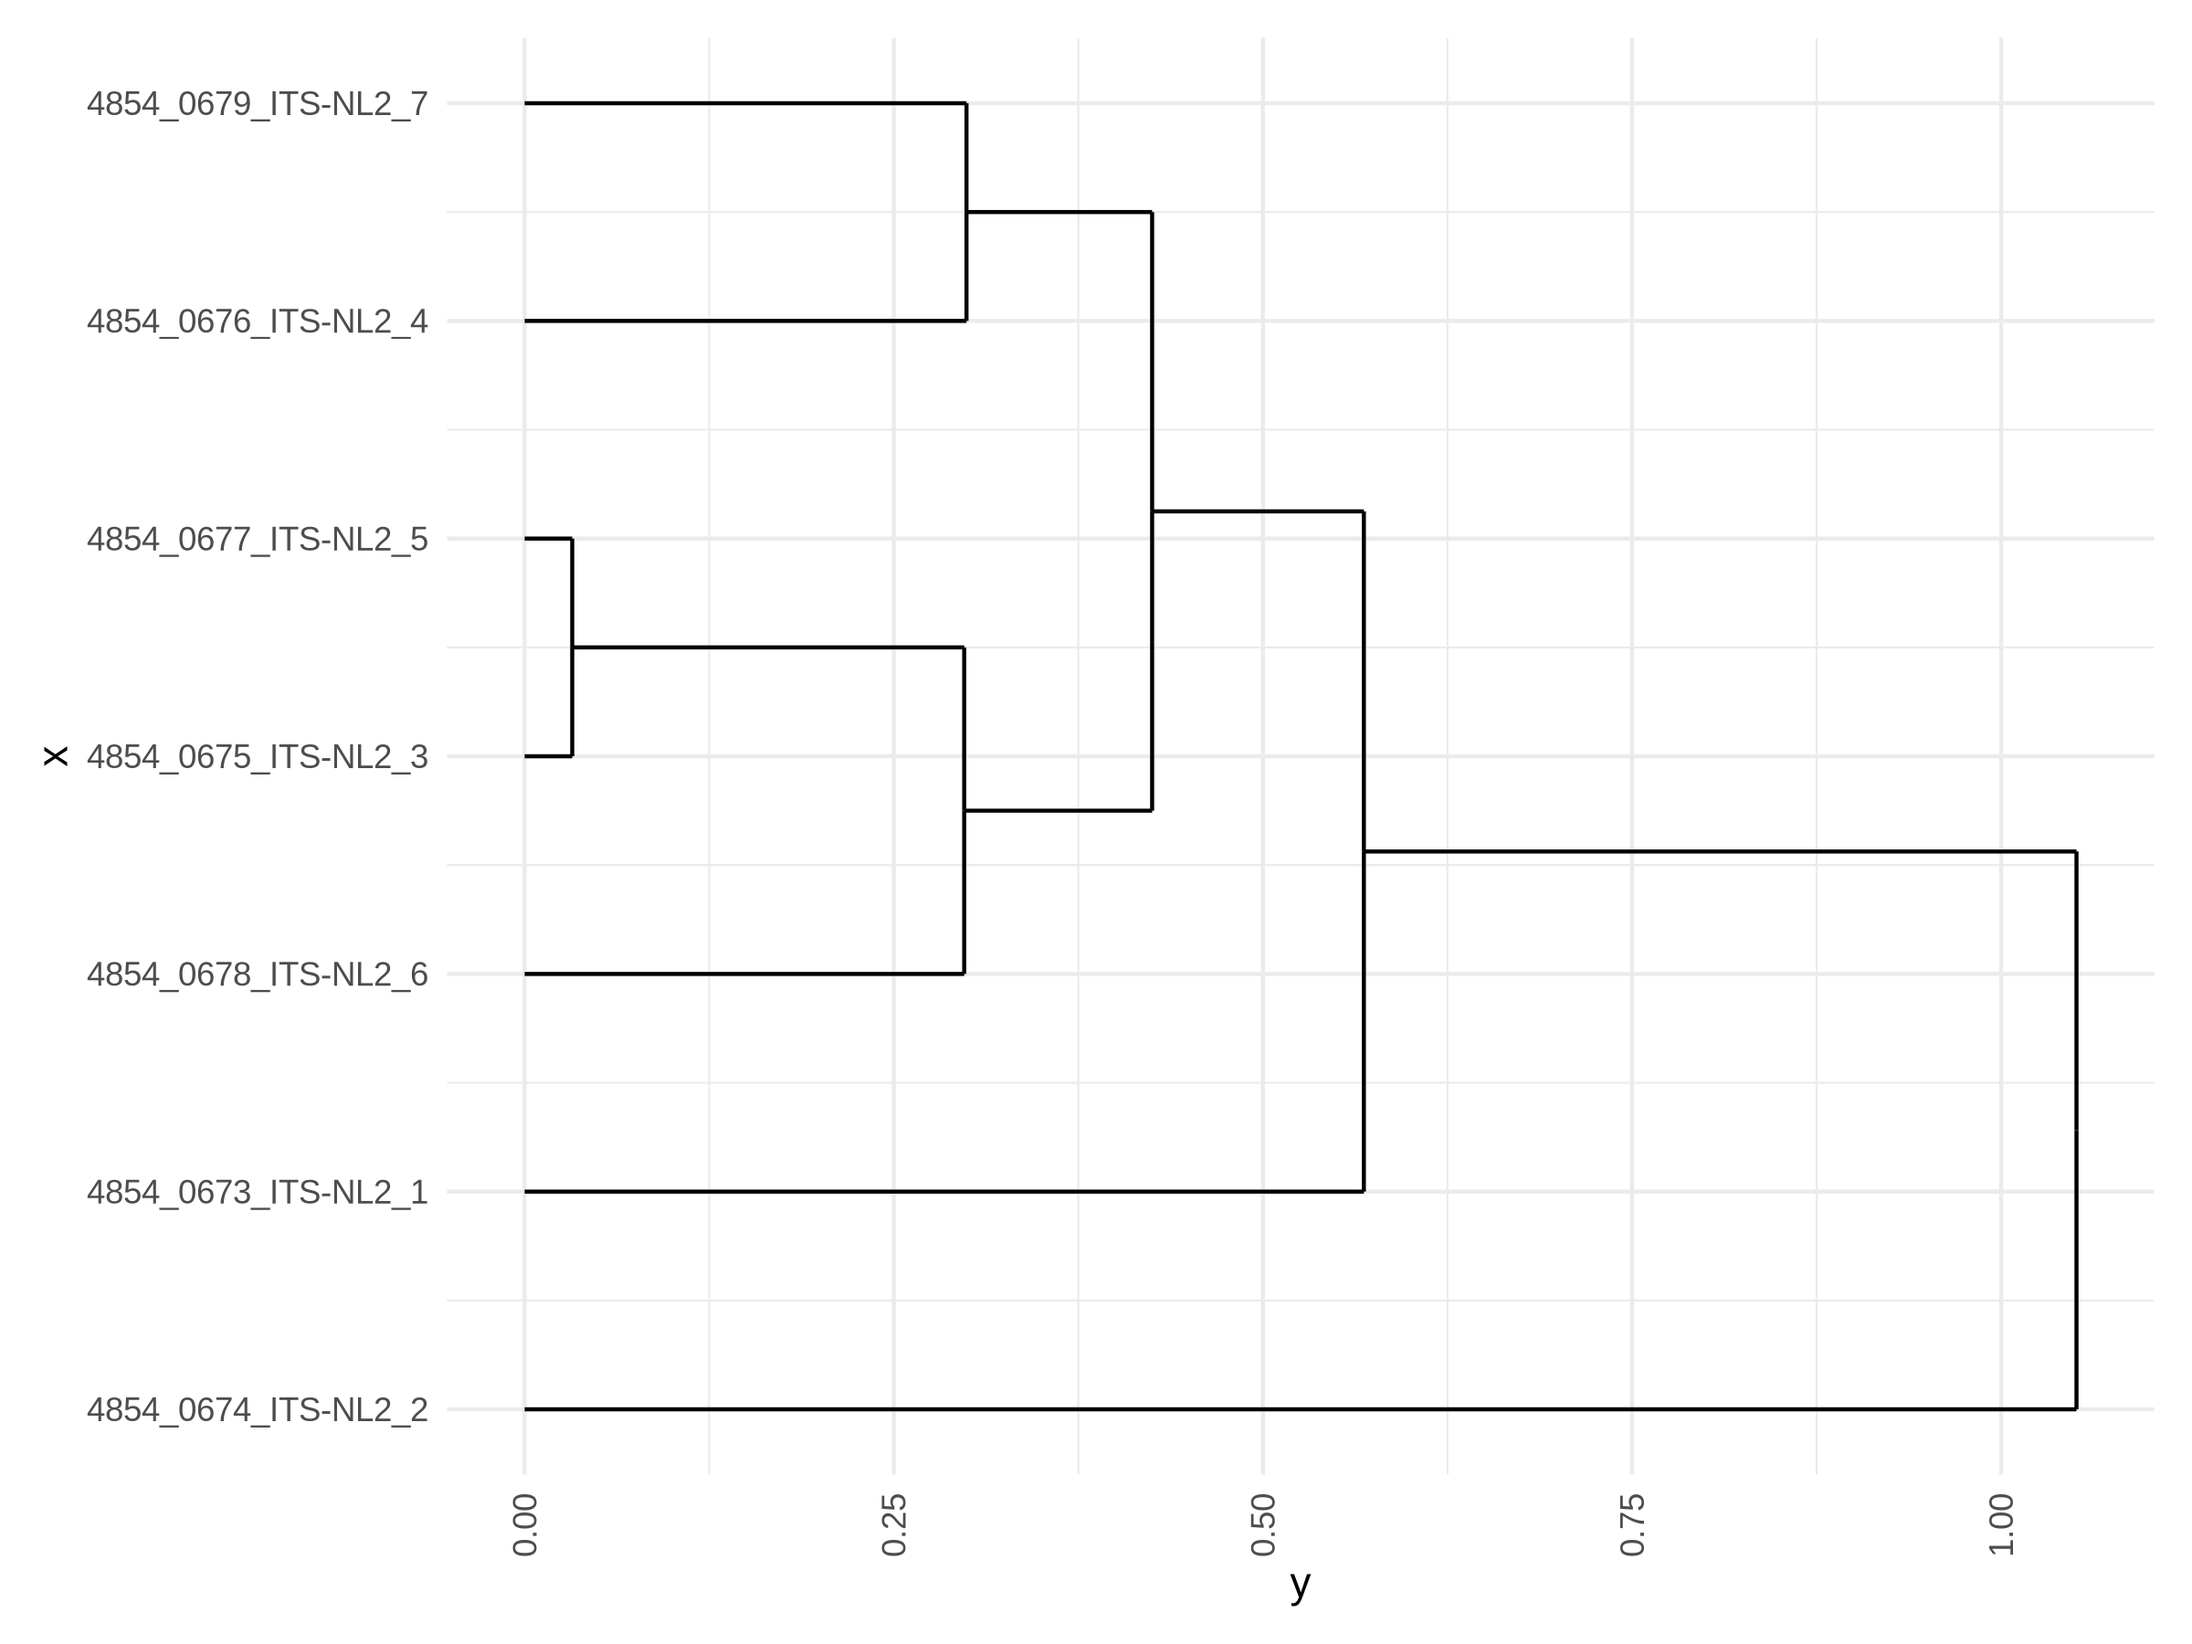
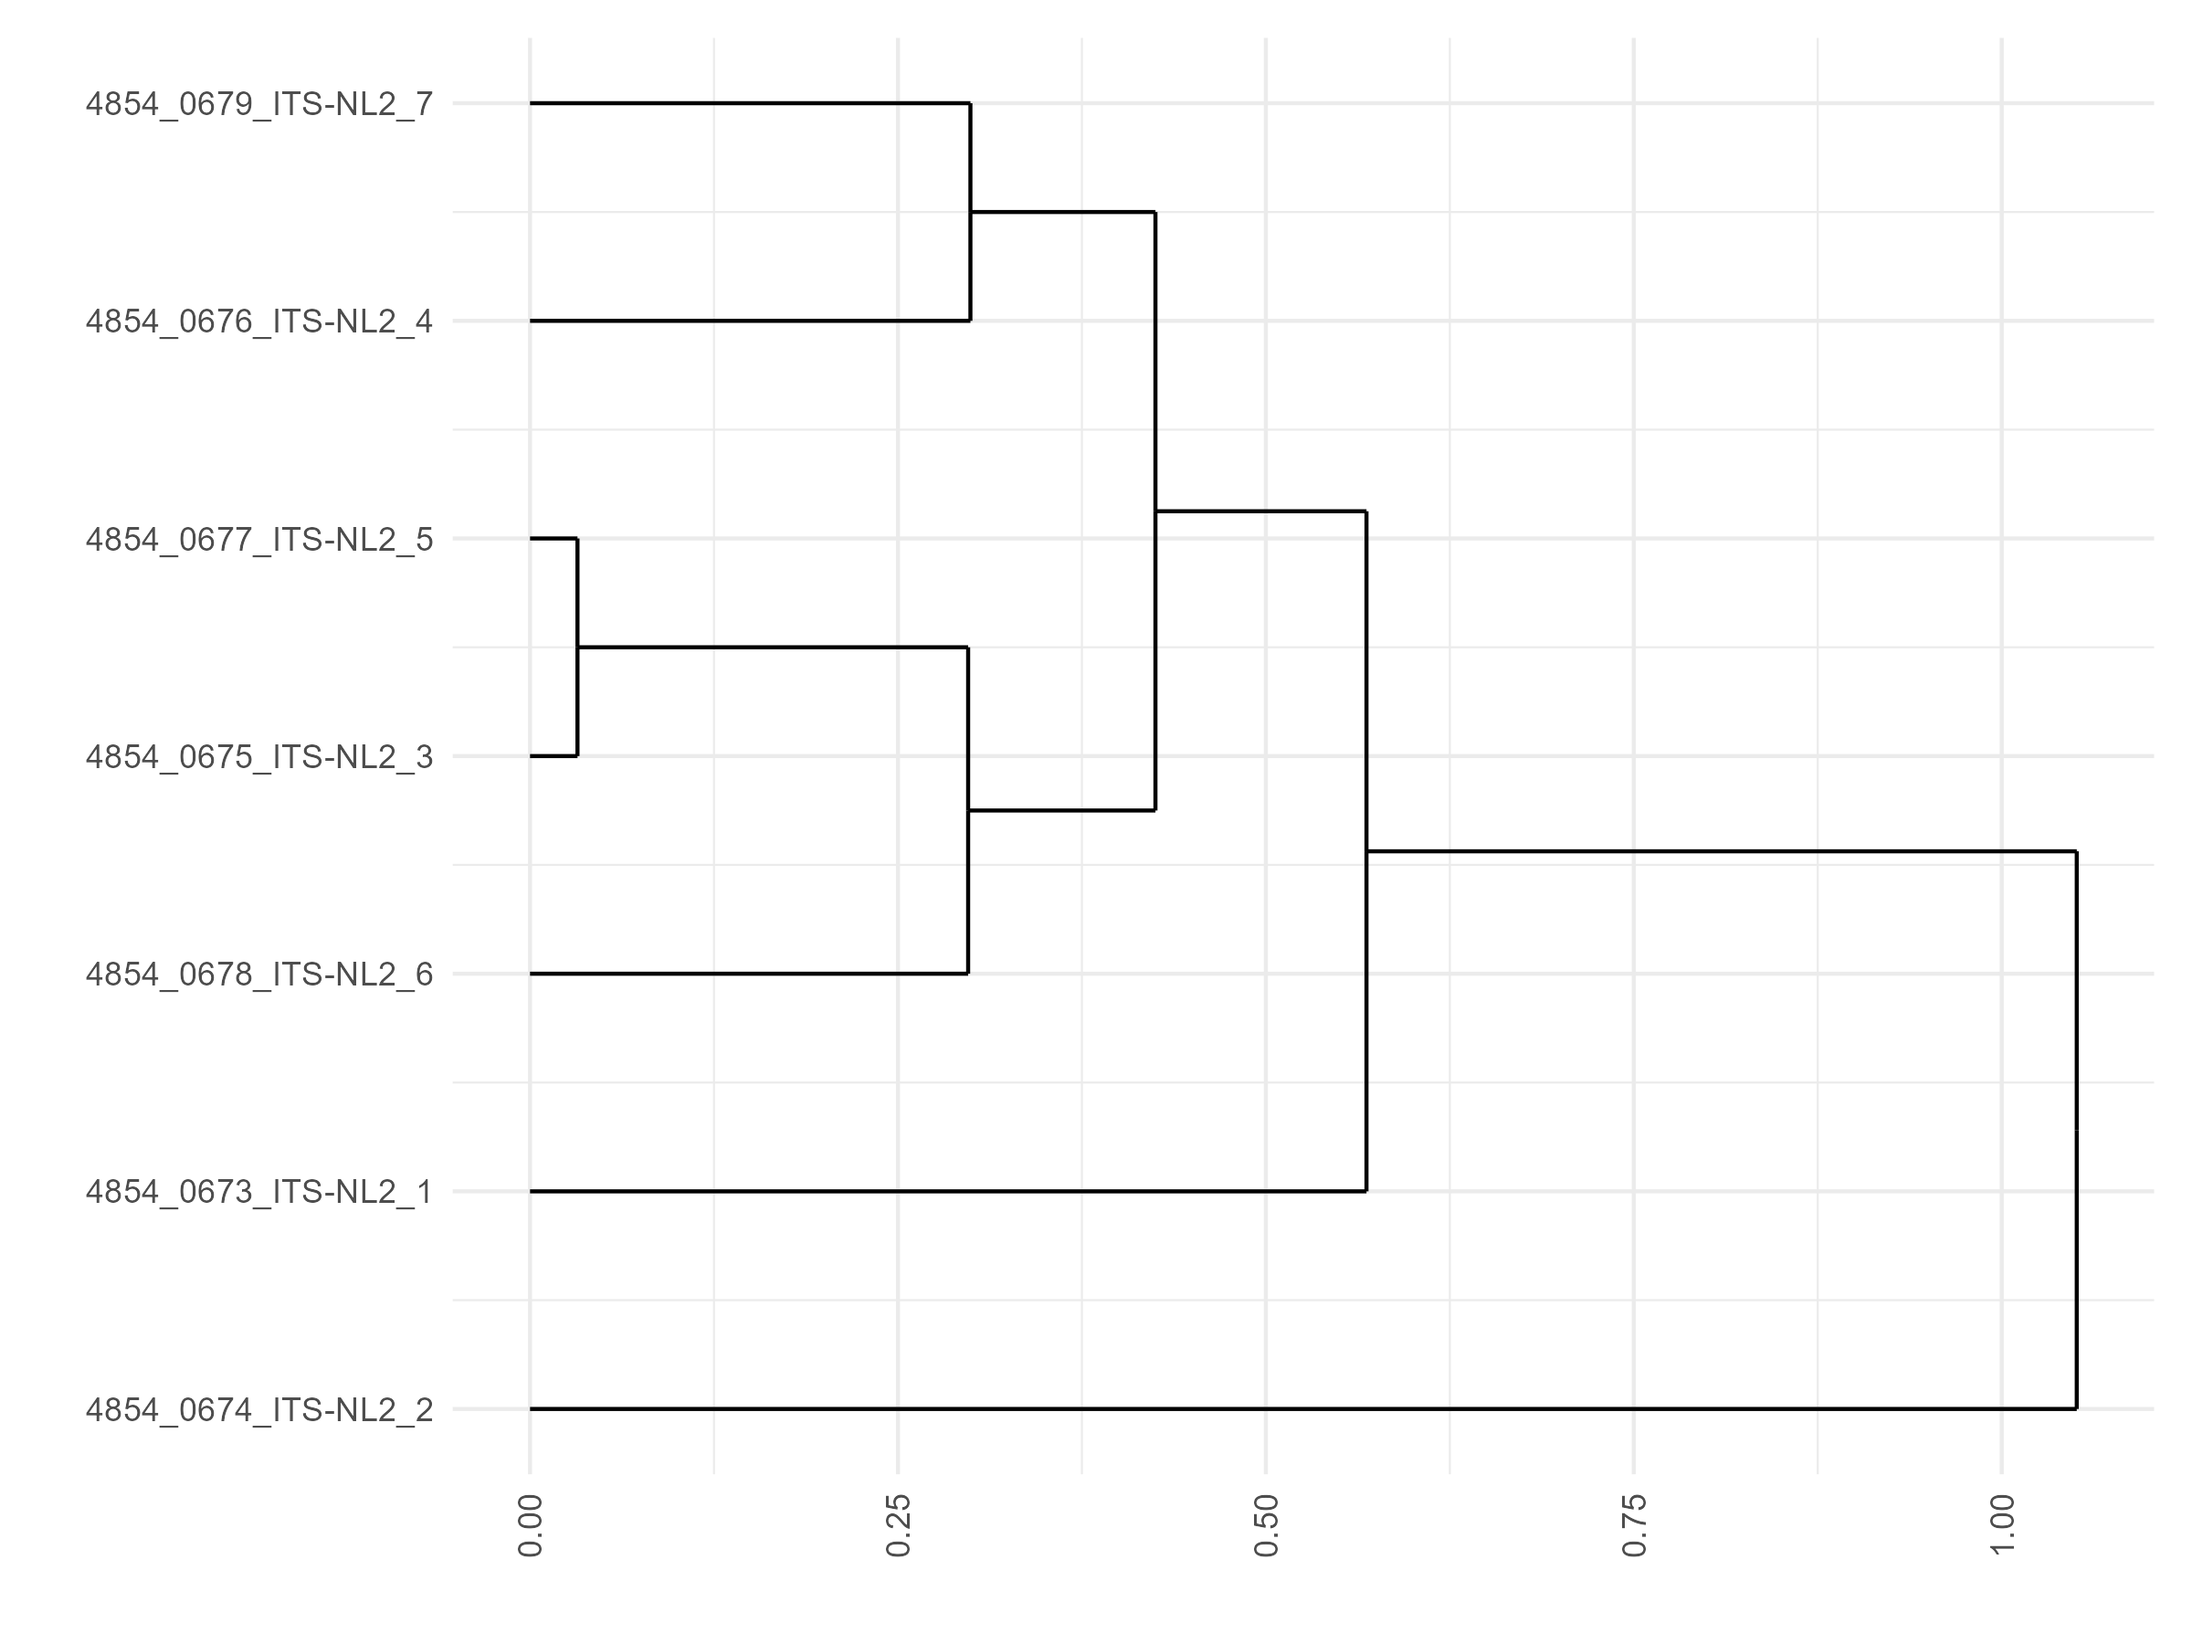
adding to (main) README.md, small visualization changes

diff --git a/README.md b/README.md
@@ -1,17 +1,47 @@
 # barcode-phylogenetic-diversity
-This is a master internship project of Ciel Huisman at Naturalis Biodiversity Center. 
-Repository for experiments with QIIME-based alpha/beta phylogenetic diversity metrics in the Galaxy environment.
-The goal of this workflow is to provide visualizations of such PD metrics when provided with ITS metabarcoding data.
+## About the workflow
+Repository for experiments with QIIME2-based alpha/beta phylogenetic diversity (PD) metrics in the Galaxy environment.
+The goal of the described pipeline is to provide automated visualizations of PD metrics when provided with 
+ITS metabarcoding data, in the context of the eDentity project at Naturalis Biodiversity Center. It is written 
+in Python and R and implemented in Snakemake. It also makes use of conda for the management of the virtual environment
+needed for the workflow and of the API 'bioblend' to access the Galaxy environment. The workflow is part of 
+a master internship project of Ciel Huisman.
 
-**Preparation**
+All rules of the workflow and their dependencies can be represented like this:
+![DAG of entire workflow.](https://github.com/naturalis/barcode-phylogenetic-diversity/blob/main/full_dag.svg)
 
-- Make sure the ITS sequences are FASTQ files in demultiplexed Phred33 format and present in the 'data' folder
-- Check/modify the tool list (src/tools.txt) and parameters (src/parameters.py)
-- Check/modify the snakefile (src/snakefile), specifically the target rule for the correct output
+## Usage
+### Installation and setup
+1. Operating system: make sure you can access a Linux or WSL terminal, such as the Ubuntu (22.04.3) WSL that was used 
+in making this pipeline and that the rest of the setup is based on.
+2. Software: install conda and Python via your terminal, such as by installing 'miniforge' or 'miniconda'. At 
+the time of building the workflow, conda was installed via 'mambaforge', but this is currently no longer supported 
+(R need not be installed, as conda supports R packages). For miniforge, it should look something like this:
+```
+wget https://github.com/conda-forge/miniforge/releases/latest/download/Miniforge3-Linux-x86_64.sh
+bash ./ Miniforge3-Linux-x86_64.sh
+```
+3. Virtual environment: use conda inside your terminal to create the virtual environment 
+'barcode-phylogenetic-diversity' according the _environment.yml_ file in the root of this repository. Then use conda 
+to activate this environment:
+```
+conda create barcode-phylogenetic-diversity -filename environment.yml
+conda activate barcode-phylogenetic-diversity
+```
+4. API key: log into Galaxy and navigate to 'Users > Preferences > Manage API Key' and copy
+your API key. Now, in your terminal, export it:
+```
+export GALAXY_API_KEY='pasteyourapikey'
+```
 
-**Executing the workflow**
+### Running of the workflow 
+1. Prepare the data directory: make sure the ITS sequences are present and are in the appropriate format, 
+as described in the README.md in the data directory
+2. Prepare the src directory: check/modify the tool list (src/tools.txt), parameters (src/parameters.py), 
+and snakefile (src/snakefile), as described in the README.md in the src directory 
+3. Navigate to the src directory in your terminal
+4. Run snakemake. You must at least specify the number of cores to be used:
 
-1. Open your terminal and export your API key for access to Galaxy
-2. Conda create and activate the virtual environment 'barcode-phylogenetic-diversity' with environment.yml
-3. Navigate to 'src' directory
-4. Run snakemake
+```
+snakemake -c 1
+```

diff --git a/src/README.md b/src/README.md
@@ -1,12 +1,12 @@
- # Workflow
+ ## Workflow details
 
-**Overview**
+### Overview
 
 This workflow is based on five bin scripts and the three files inside this directory to operate correctly. Most rules 
 deal with the running of tools within the Galaxy environment and rely on _bin/run_tools.py_ script, while the other 
 rules and bin scripts facilitate this process and the visualization of the results.
 
-**Executing workflow: _Snakefile_**
+### Framework: _Snakefile_
 
 The snakefile describes the whole workflow through rules of input, shell/script, and output. Most rules 
 have two types of input: a temporary text file with a tool name and another temporary text file with an id 
@@ -14,18 +14,15 @@ of the dataset to be used by the tool. The output consists of another text file 
 dataset, which is often used by another rule as input. These temporary files are stored in the 'results/galaxy-ids' 
 directory, until no longer required.
 
-**Tool name input: _tools.txt_**
+### Tool name input: _tools.txt_
 
 The tool name files are produced by the _bin/get_tool_names.py_ script, which uses the tool list in the _tools.txt_ 
 file to do so. 
 
-**Parameter setting: _parameters.py_**
+### Parameter setting: _parameters.py_
 
 This script sets the parameters needed for the running of the tool. It is imported by the _bin/run_tools.py_
 script and takes as arguments the aforementioned tool name as well as the id of the dataset, to produce 
 the right parameter settings. The out_file variable is only needed when the same tool is used for different 
 rules, which is in this case the _qiime2_export_alpha_ and _qiime2_export_alpha_ rules that both employ the 
 'qiime2 tools export' tool.
-
-
-

diff --git a/data/README.md b/data/README.md
@@ -1,6 +1,6 @@
- # Metabarcoding data
+ ## Metabarcoding data
 
-**Sequences: the fastq.gz files**
+### Sequences: the fastq.gz files
 
 The workflow is designed to visualize the alpha and beta diversity of the sequences in this directory. They are the 
 fungal ITS sequences acquired from soil sampled in seven locations in the Netherlands. Their format is demultiplexed 
@@ -9,9 +9,9 @@ Illumina sequencing, and require a 'Manifest' file (see below). Another feature 
 forward (R1) and reverse (R2) pair that will be merged eventually, producing fourteen initial files. They were zipped 
 to reduce storage, which resulted in the .gz extension.
 
-**Manifest: _4854_manifest.csv_**
+### Manifest: _4854_manifest.csv_
 
-Along the pipeline, the sequences will have to be imported into QIIME2 inside the Galaxy environment. To do so, 
+During the pipeline, the sequences will have to be imported into QIIME2 inside the Galaxy environment. To do so, 
 the 'qiime2 tools import' tool needs a Manifest file in CSV format, containing the sample id, the absolute filepath 
 (based on the UUID inside Galaxy), and the direction (forward/reverse). One of the bin scripts, _paste_and_manifest.py_,
 pastes the data inside Galaxy, creates the Manifest file, and also pastes this Manifest file into Galaxy. It is meant 
